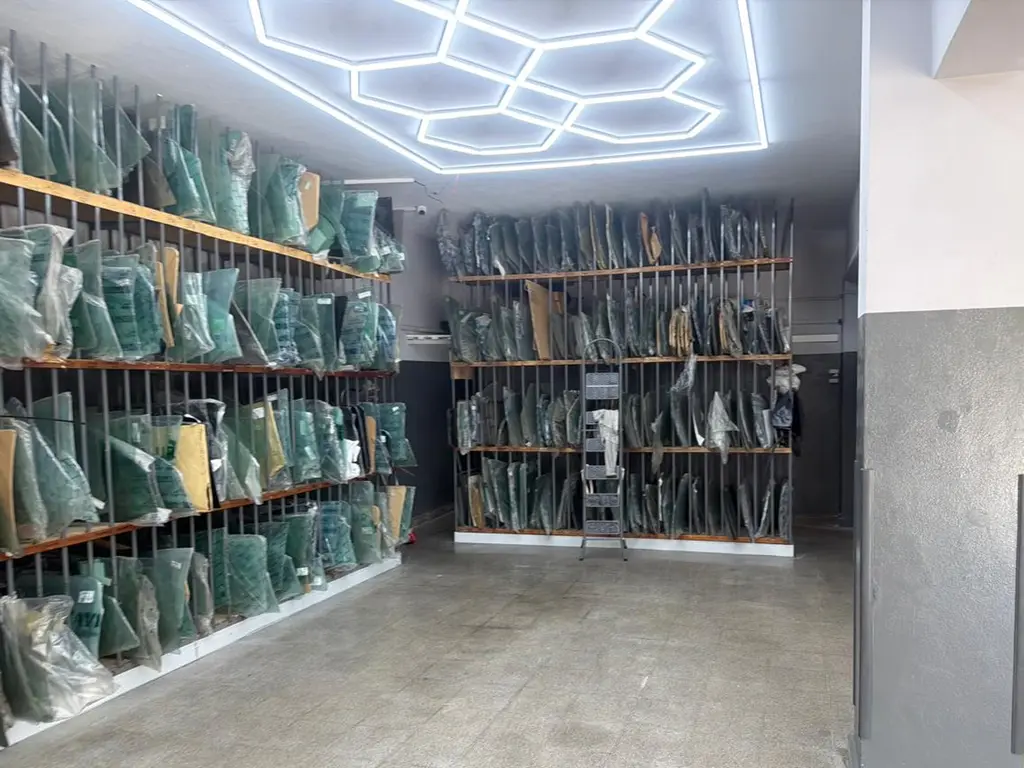
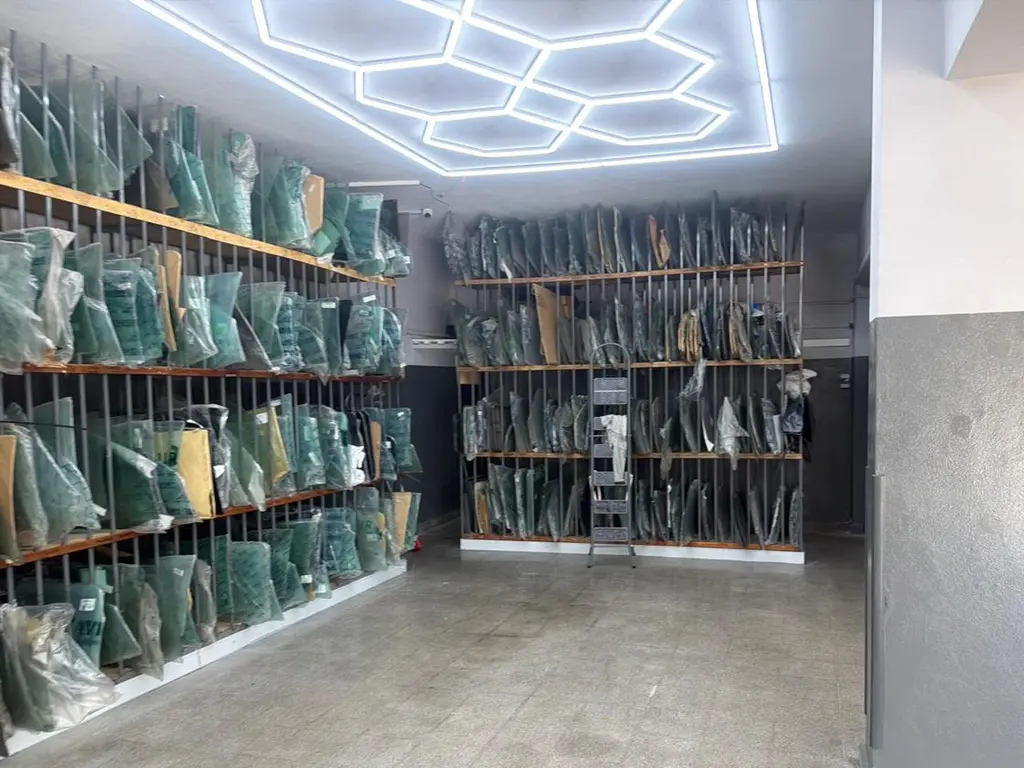
Paneo del taller sin zoom hacia atrás y con velocidad pareja
- Recortes de 45, 54 y 55 ajustados: ningún tramo se aleja (antes 46→45 y 53→54 perdían zoom)
- La duración de cada tramo se reparte por movimiento real (zoom + paneo), también en la calle y la entrada
- La entrada por el portón se acorta para que el paneo por el salón sea lo principal

diff --git a/src/PhotoTour.ts b/src/PhotoTour.ts
@@ -14,17 +14,17 @@ const FRAMES = Array.from({ length: 12 }, (_, i) => `/taller/${i + 1}.webp`);
 // la duración de cada uno es proporcional a cuánto se mueve la cámara, así la velocidad es pareja.
 // fit = [a, dx, dy] con dx y dy normalizados a W y H (x_B = a·x_A + d).
 const STEPS: { from: number; to: number; at: [number, number]; fit: [number, number, number] }[] = [
-  { from: 0, to: 1, at: [0.05, 0.139], fit: [1.2554, -0.0933, -0.2076] }, // 5 → 6
-  { from: 1, to: 2, at: [0.139, 0.198], fit: [1.1777, -0.1028, -0.0717] }, // 6 → 7
-  { from: 2, to: 3, at: [0.198, 0.366], fit: [2.5000, -0.8516, -0.8281] }, // 7 → 46
-  { from: 3, to: 4, at: [0.366, 0.466], fit: [0.9734, -0.2891, 0.0483] }, // 46 → 45
-  { from: 4, to: 5, at: [0.466, 0.6], fit: [1.1883, -0.0468, -0.1101] }, // 45 → 48
-  { from: 5, to: 6, at: [0.6, 0.641], fit: [1.0224, -0.0740, -0.0639] }, // 48 → 49
-  { from: 6, to: 7, at: [0.641, 0.705], fit: [1.0854, -0.0575, -0.0136] }, // 49 → 50
-  { from: 7, to: 8, at: [0.705, 0.759], fit: [1.0690, -0.0562, 0.0021] }, // 50 → 51
-  { from: 8, to: 9, at: [0.759, 0.86], fit: [1.1016, -0.1550, -0.0045] }, // 51 → 53
-  { from: 9, to: 10, at: [0.86, 0.878], fit: [0.9900, -0.0390, -0.0164] }, // 53 → 54
-  { from: 10, to: 11, at: [0.878, 0.93], fit: [1.0434, -0.0854, -0.0460] }, // 54 → 55
+  { from: 0, to: 1, at: [0.05, 0.17], fit: [1.2554, -0.0933, -0.2076] }, // 5 → 6
+  { from: 1, to: 2, at: [0.17, 0.24], fit: [1.1777, -0.1028, -0.0717] }, // 6 → 7
+  { from: 2, to: 3, at: [0.24, 0.459], fit: [2.5000, -0.8516, -0.8281] }, // 7 → 46
+  { from: 3, to: 4, at: [0.459, 0.598], fit: [1.0590, -0.3327, 0.0286] }, // 46 → 45
+  { from: 4, to: 5, at: [0.598, 0.667], fit: [1.1424, -0.0468, -0.1101] }, // 45 → 48
+  { from: 5, to: 6, at: [0.667, 0.706], fit: [1.0224, -0.0740, -0.0639] }, // 48 → 49
+  { from: 6, to: 7, at: [0.706, 0.75], fit: [1.0854, -0.0575, -0.0136] }, // 49 → 50
+  { from: 7, to: 8, at: [0.75, 0.792], fit: [1.0690, -0.0562, 0.0021] }, // 50 → 51
+  { from: 8, to: 9, at: [0.792, 0.872], fit: [1.1016, -0.1550, -0.0045] }, // 51 → 53
+  { from: 9, to: 10, at: [0.872, 0.889], fit: [1.0048, -0.0404, -0.0173] }, // 53 → 54
+  { from: 10, to: 11, at: [0.889, 0.93], fit: [1.0391, -0.0839, -0.0441] }, // 54 → 55
 ];
 
 const clamp = (v: number) => Math.min(1, Math.max(0, v));
